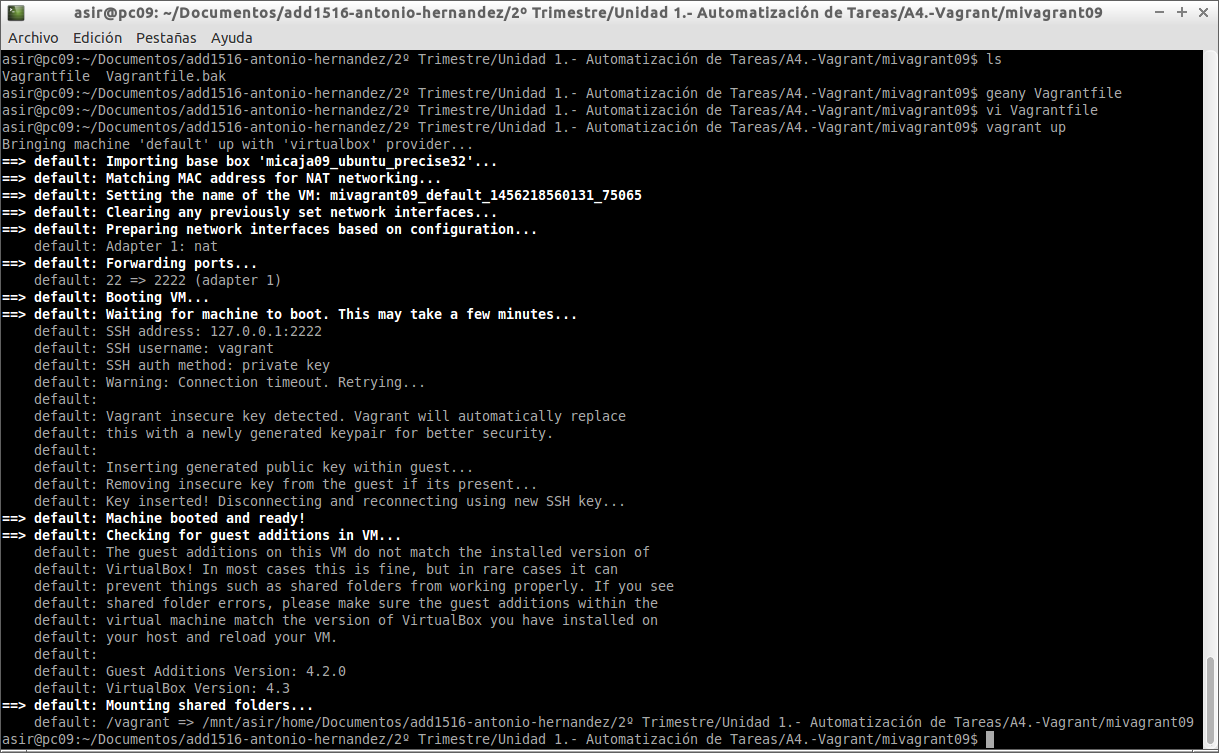
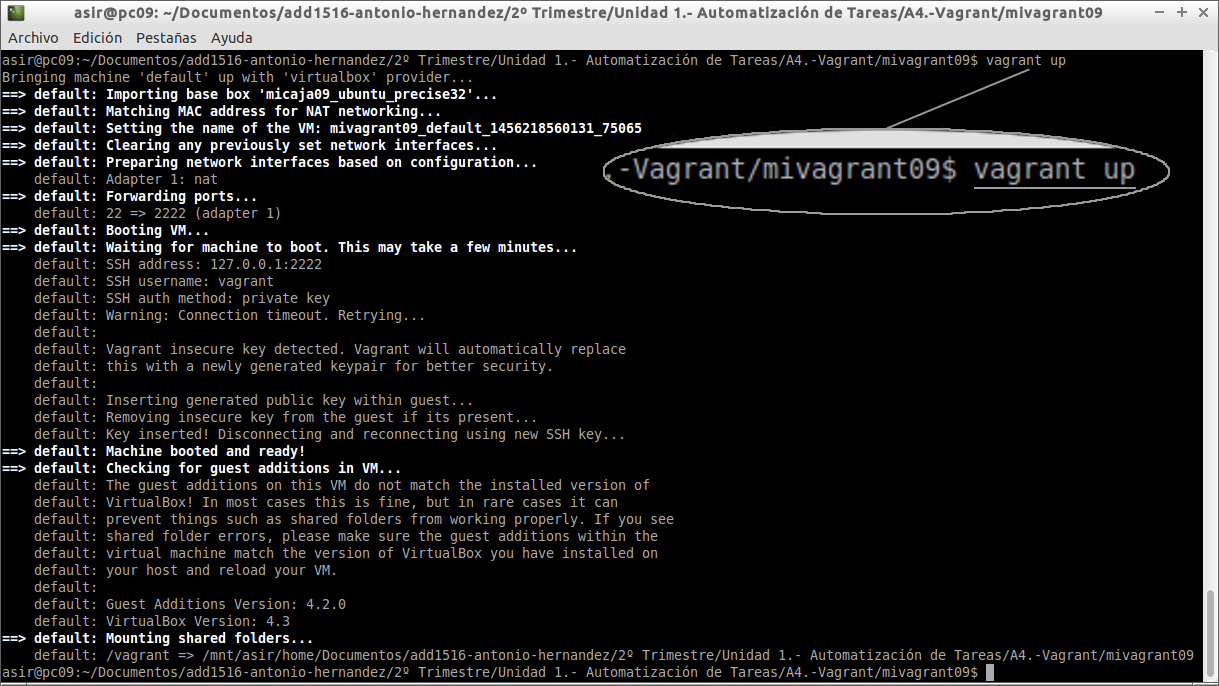
README

Changed region(s): [[0.0, 0.0, 0.9975, 1.0], [0.7793, 0.3061, 0.8105, 0.3367], [0.6546, 0.3061, 0.6858, 0.3367]]

diff --git a/2º Trimestre/Unidad 1.- Automatización de Tareas/A4.-Vagrant/README.md b/2º Trimestre/Unidad 1.- Automatización de Tareas/A4.-Vagrant/README.md
@@ -59,9 +59,10 @@ Para arrancar la máquina tenemos que editar el fichero `Vagrantfile` y añadir 
 
 ![](screenshots/05.png)
 
+Una vez editado, lanzamos el comando `vagrant up` dentro de la carpeta donde tenemos el fichero `vagrantfile`:
 
+![](screenshots/06.png)
 
-![](screenshots/06.png)
 ![](screenshots/07.png)
 ![](screenshots/07b.png)
 
